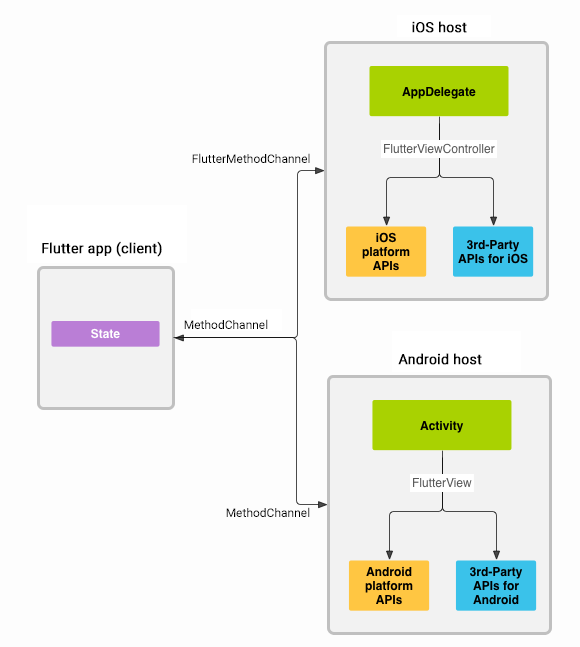
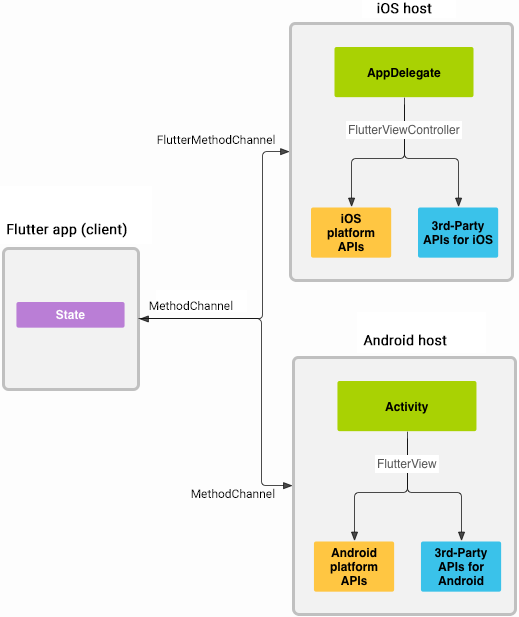
Add Platform channel images

Changed region(s): [[0.0, 0.0, 1.0, 0.8314], [0.5549, 0.5235, 1.0, 1.0]]

diff --git a/lib/resources/strings.dart b/lib/resources/strings.dart
@@ -17,7 +17,7 @@ class Strings {
 
   /// Captions
   static const romaoCaption = 'Why so serious?';
-  static const frameworkCaption = 'Flutter Framework';
-  static const dartCompilerCaption = 'Dart Compiler';
-  static const frameworkAbstractionCaption = 'Hackernoon abstraction';
+  static const frameworkCaption = 'Flutter framework';
+  static const dartCompilerCaption = 'Dart compiler';
+  static const frameworkAbstractionCaption = 'Flutter abstraction';
 }

diff --git a/lib/slides/channel_slide.dart b/lib/slides/channel_slide.dart
@@ -14,11 +14,15 @@ class ChannelSlide extends SlideBase {
 
   @override
   Widget body(BuildContext context) {
-    return Column(
+    return Row(
       children: <Widget>[
         ExpandedImage(
-          scale: 1.1,
+          padding: EdgeInsets.zero,
           imagePath: Images.channels,
+        ),
+        ExpandedImage(
+          padding: EdgeInsets.zero,
+          imagePath: Images.platform,
         ),
       ],
     );

diff --git a/lib/resources/images.dart b/lib/resources/images.dart
@@ -9,6 +9,7 @@ class Images {
   static const framework = '$_defaultPath/framework.png';
   static const dart = '$_defaultPath/dart.png';
   static const abstractFramework = '$_defaultPath/abstract_framework.png';
+  static const platform = '$_defaultPath/platform.png';
   static const channels = '$_defaultPath/channels.png';
   static const bridge = '$_defaultPath/bridge.png';
 

diff --git a/lib/slides/bridge_slide.dart b/lib/slides/bridge_slide.dart
@@ -59,7 +59,7 @@ class BridgeSlide extends SlideBase {
               imagePath: Images.bridge,
               scale: 2.0,
               alignment: MainAxisAlignment.end,
-              caption: 'Javascript Bridge',
+              caption: 'Javascript bridge',
             ),
             ExpandedImage(
               flex: 2,

diff --git a/lib/slides/async_slide.dart b/lib/slides/async_slide.dart
@@ -83,7 +83,7 @@ class AsyncSlide extends SlideBase {
         Align(
           alignment: Alignment.center,
           child: Text(
-            'Event loop (giphy)',
+            'Event loop',
             style: Styles.textCaption,
           ),
         )
